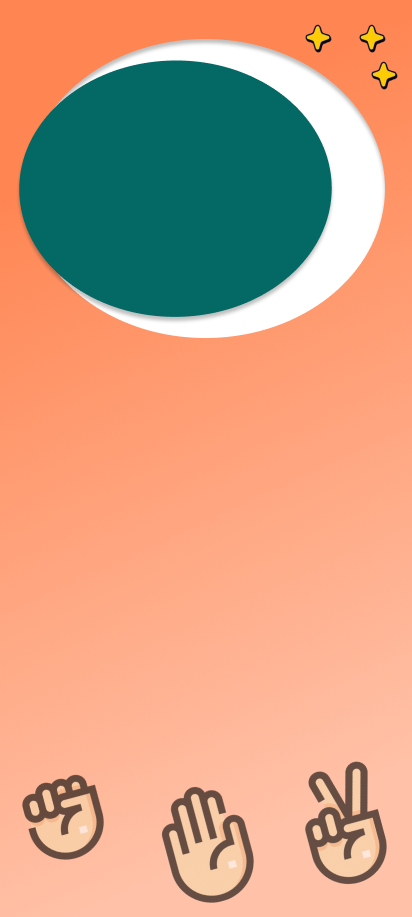
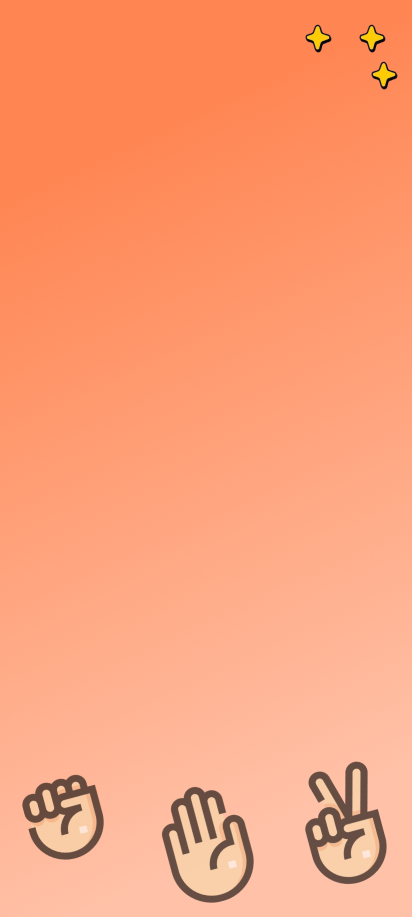
[FIX] postGameplayScreen

Changed region(s): [[0.0291, 0.0305, 0.932, 0.3664]]

diff --git a/screens/postGameplayBotScreen.jsx b/screens/postGameplayBotScreen.jsx
@@ -52,15 +52,16 @@ const PostGameScreen = ({ route, navigation }) => {
     }, []);
     
       // Render baris tabel
-      const renderItem = ({ item }) => (
-        <View style={[styles.row, item.id === userRank?.id ? styles.highlightRow : null]}>
-          <View style={styles.cellRankContainer}>
-            <Text style={styles.cellRank}>{item.rank}</Text>
-          </View>
-          <Text style={styles.cellUsername}>{item.username}</Text>
-          <Text style={styles.cellScore}>{item.win_count}</Text>
+
+    const renderItem = ({ item }) => (
+      <View style={[styles.row, item.id === userRank?.id ? styles.highlightRow : null]}>
+        <View style={styles.cellRankContainer}>
+          <Text style={styles.cellRank}>{item.rank}</Text>
         </View>
-      );
+        <Text style={[styles.cellUsername, item.id === userRank?.id ? styles.cellUsernameMe : null]}>{item.username}</Text>
+        <Text style={[styles.cellScore, item.id === userRank?.id ? styles.cellScoreMe : null]}>{item.win_count}</Text>
+      </View>
+    );
   
 
   const [fontsLoaded] = useFonts({
@@ -92,9 +93,13 @@ const PostGameScreen = ({ route, navigation }) => {
       resizeMode="stretch"
     >
       <View style={styles.gameOverContainer}>
-        <Text style={styles.gameOverText}>
-          {scoreA === 3 ? "You Win!" : "You Lose!"}
-        </Text>
+        <View style={styles.firstCircle}>
+          <View style={styles.secondCircle}>
+          <Text style={styles.gameOverText}>
+            {scoreA === 3 ? "You Win!" : "You Lose!"}
+          </Text>
+          </View>  
+        </View>
         {/* Score */}
         <View style={styles.scoreContainer}>
           <Text style={styles.scoreTitle}>A vs B</Text>
@@ -119,52 +124,54 @@ const PostGameScreen = ({ route, navigation }) => {
         </TouchableOpacity>
 
       {/* Modal Leaderboard */}
-              <Modal animationType="fade" transparent={true} visible={isModalVisible === 'leaderboard'} onRequestClose={handleCloseModal}>
-              <TouchableOpacity style={styles.modalContainer} activeOpacity={1} onPressOut={handleCloseModal}>
-                <TouchableWithoutFeedback>
-                  <View style={styles.coba}>
-                    <View style={styles.leaderboardTitle}>
-                      <Image style={styles.leaderboardIconModals} source={require('../assets/icon/home/leaderboard.png')}/>
-                      <Text style={styles.leaderboardTitleText}>Leaderboard</Text>
+        <Modal animationType="fade" transparent={true} visible={isModalVisible === 'leaderboard'} onRequestClose={handleCloseModal}>
+        <TouchableOpacity style={styles.modalContainer} activeOpacity={1} onPressOut={handleCloseModal}>
+          <TouchableWithoutFeedback>
+            <View style={styles.coba}>
+              <View style={styles.leaderboardTitle}>
+                <Image style={styles.leaderboardIconModals} source={require('../assets/icon/home/leaderboard.png')}/>
+                <Text style={styles.leaderboardTitleText}>Leaderboard</Text>
+              </View>
+              <View style={styles.leaderboardContainer}>
+                <View style={styles.modalContent}>
+                  {/* Header Modal */}               
+                  {/* Tabel */}
+                  <View style={styles.table}>
+                  {/* Header Tabel */}
+                    <View style={styles.rowHeader}>
+                      <Text style={styles.cellHeaderRank}>Rank</Text>
+                      <Text style={styles.cellHeaderUsername}>Username</Text>
+                      <Text style={styles.cellHeaderScore}>Score</Text>
                     </View>
-                    <View style={styles.leaderboardContainer}>
-                      <View style={styles.modalContent}>
-                        {/* Header Modal */}               
-                        {/* Tabel */}
-                        <View style={styles.table}>
-                        {/* Header Tabel */}
-                          <View style={styles.rowHeader}>
-                            <Text style={styles.cellHeaderRank}>Rank</Text>
-                            <Text style={styles.cellHeaderUsername}>Username</Text>
-                            <Text style={styles.cellHeaderScore}>Score</Text>
-                          </View>
-                          {/* Data Tabel */}
-                          {loading ? (
-                      <ActivityIndicator size="large" color="#6200EE" />
-                    ) : error ? (
-                      <Text style={styles.errorText}>{error}</Text>
-                    ) : (
-                      <>
-                        <FlatList
-                          data={data.filter(item => item.rank <= 5)}
-                          renderItem={renderItem}
-                          keyExtractor={item => item.id.toString()} />
-                        {userRank && userRank.rank > 5 && (
-                          <View style={[styles.row, styles.userRankRow]}>
-                            <Text style={styles.cell}>{userRank.rank}</Text>
-                            <Text style={styles.cell}>{userRank.username}</Text>
-                            <Text style={styles.cell}>{userRank.win_count}</Text>
-                          </View>
-                        )}
-                      </>
-                    )}
-                        </View>
+                    {/* Data Tabel */}
+                    {loading ? (
+                <ActivityIndicator size="large" color="#6200EE" />
+              ) : error ? (
+                <Text style={styles.errorText}>{error}</Text>
+              ) : (
+                <>
+                  <FlatList
+                    data={data.filter(item => item.rank <= 5)}
+                    renderItem={renderItem}
+                    keyExtractor={item => item.id.toString()} />
+                  {userRank && userRank.rank > 5 && (
+                    <View style={[styles.row, styles.userRankRow]}>
+                      <View style={styles.cellRankContainer}>
+                        <Text style={styles.cellRank}>{userRank.rank}</Text>
                       </View>
+                      <Text style={styles.cellUsernameMe}>{userRank.username}</Text>
+                      <Text style={styles.cellScoreMe}>{userRank.win_count}</Text>
                     </View>
+                  )}
+                </>
+              )}
                   </View>
-                </TouchableWithoutFeedback>
-              </TouchableOpacity>
-            </Modal>
+                </View>
+              </View>
+            </View>
+          </TouchableWithoutFeedback>
+        </TouchableOpacity>
+      </Modal>
 
       </View>
     </ImageBackground>
@@ -175,23 +182,41 @@ const PostGameScreen = ({ route, navigation }) => {
 const styles = StyleSheet.create({
   backgroundGameOver: {
     flex: 1,
-    justifyContent: "space-evenly",
-    alignItems: "stretch",
-
+    padding: 40,
   },
   gameOverContainer: {
-    flex: 1,
     justifyContent: "center",
     alignItems: "center",
+  },
+  firstCircle: {
+    width: 332,
+    height: 277,
+    borderRadius: "100%",
+    backgroundColor: "#FFF",
+    justifyContent: "center",
+    marginBottom: 20,
+  },
+  secondCircle: {
+    width: 289,
+    height: 237,
+    borderRadius: "100%",
+    backgroundColor: "#046865",
+    justifyContent: "center",
+  },
+  gameOverImage: {
+    justifyContent: "center",
+    alignItems: "center",
+    width: 302,
+    height: 244,
+    marginTop: -100,
+    marginBottom: -100,
   },
   gameOverText: {
     fontSize: 40,
     color: "white",
     marginBottom: 20,
-    position: "absolute",
-    top: 167,
-    left: 81,
     fontFamily: "Kavoon_400Regular",
+    textAlign: "center",
   },
   buttonGameOverMenu: {
     paddingHorizontal: 53,
@@ -220,7 +245,6 @@ const styles = StyleSheet.create({
   },
   scoreContainer: {
     alignItems: "center",
-    marginTop: 150,
     marginBottom: 30,
   },
   scoreTitle: {
@@ -244,6 +268,7 @@ const styles = StyleSheet.create({
     fontSize: 40,
     color: "#000",
     fontFamily: "Kavoon_400Regular",
+    marginTop: -20,
   },
 
   //Styling Modal
@@ -290,14 +315,6 @@ const styles = StyleSheet.create({
     borderBottomWidth: 2,
     borderColor: 'white',
   },
-  cellHeaderRank: {
-    flex: 1,
-    paddingVertical: 5,
-    paddingHorizontal:0,
-    textAlign: 'center',
-    color: 'white',
-    fontFamily: 'KiwiMaru_500Medium',
-  },
   cellHeaderUsername: {
     flex: 3,
     paddingVertical: 5,
@@ -337,6 +354,54 @@ const styles = StyleSheet.create({
     verticalAlign: 'middle',
     fontFamily: 'KiwiMaru_500Medium',
   },
+  cellHeaderRank: {
+    flex: 1,
+    paddingVertical: 5,
+    paddingHorizontal:0,
+    textAlign: 'center',
+    color: 'white',
+    fontFamily: 'KiwiMaru_500Medium',
+  },
+  cellHeaderUsername: {
+    flex: 3,
+    paddingVertical: 5,
+    paddingHorizontal:0,
+    textAlign: 'center',
+    color: 'white',
+    fontFamily: 'KiwiMaru_500Medium',
+  },
+  cellHeaderScore: {
+    flex: 2,
+    paddingVertical: 5,
+    paddingHorizontal:0,
+    textAlign: 'center',
+    color: 'white',
+    fontFamily: 'KiwiMaru_500Medium',
+  },
+  cellRankContainer : {
+    width: 30,
+    height: 30,
+    marginLeft: 10,
+    marginVertical: 5,
+    backgroundColor: 'white',
+    borderRadius: '100%',
+    alignSelf: 'center',
+    justifyContent: 'center',
+  },
+  cellRank: {
+    flex: 1,
+    textAlign: 'center',
+    fontWeight: '500',
+    verticalAlign: 'middle',
+    fontFamily: 'KiwiMaru_500Medium',
+  },
+  cellRankMe: {
+    flex: 1,
+    textAlign: 'center',
+    fontWeight: '500',
+    verticalAlign: 'middle',
+    fontFamily: 'KiwiMaru_500Medium',
+  },
   cellUsername: {
     flex: 3,
     paddingVertical: 10,
@@ -344,12 +409,34 @@ const styles = StyleSheet.create({
     textAlign: 'center',
     fontFamily: 'KiwiMaru_500Medium',
   },
+  cellUsernameMe: {
+    flex: 3,
+    paddingVertical: 10,
+    paddingHorizontal:0,
+    textAlign: 'center',
+    fontFamily: 'KiwiMaru_500Medium',
+    color: 'white'
+  },
   cellScore: {
     flex: 2,
     paddingVertical: 10,
     paddingHorizontal:0,
     textAlign: 'center',
     fontFamily: 'KiwiMaru_500Medium',
+  },
+  cellScoreMe: {
+    flex: 2,
+    paddingVertical: 10,
+    paddingHorizontal:0,
+    textAlign: 'center',
+    fontFamily: 'KiwiMaru_500Medium',
+    color: 'white'
+  },
+  userRankRow: {
+    backgroundColor: '#046865',
+  },
+  highlightRow: {
+    backgroundColor: '#046865',
   },
 });
 
